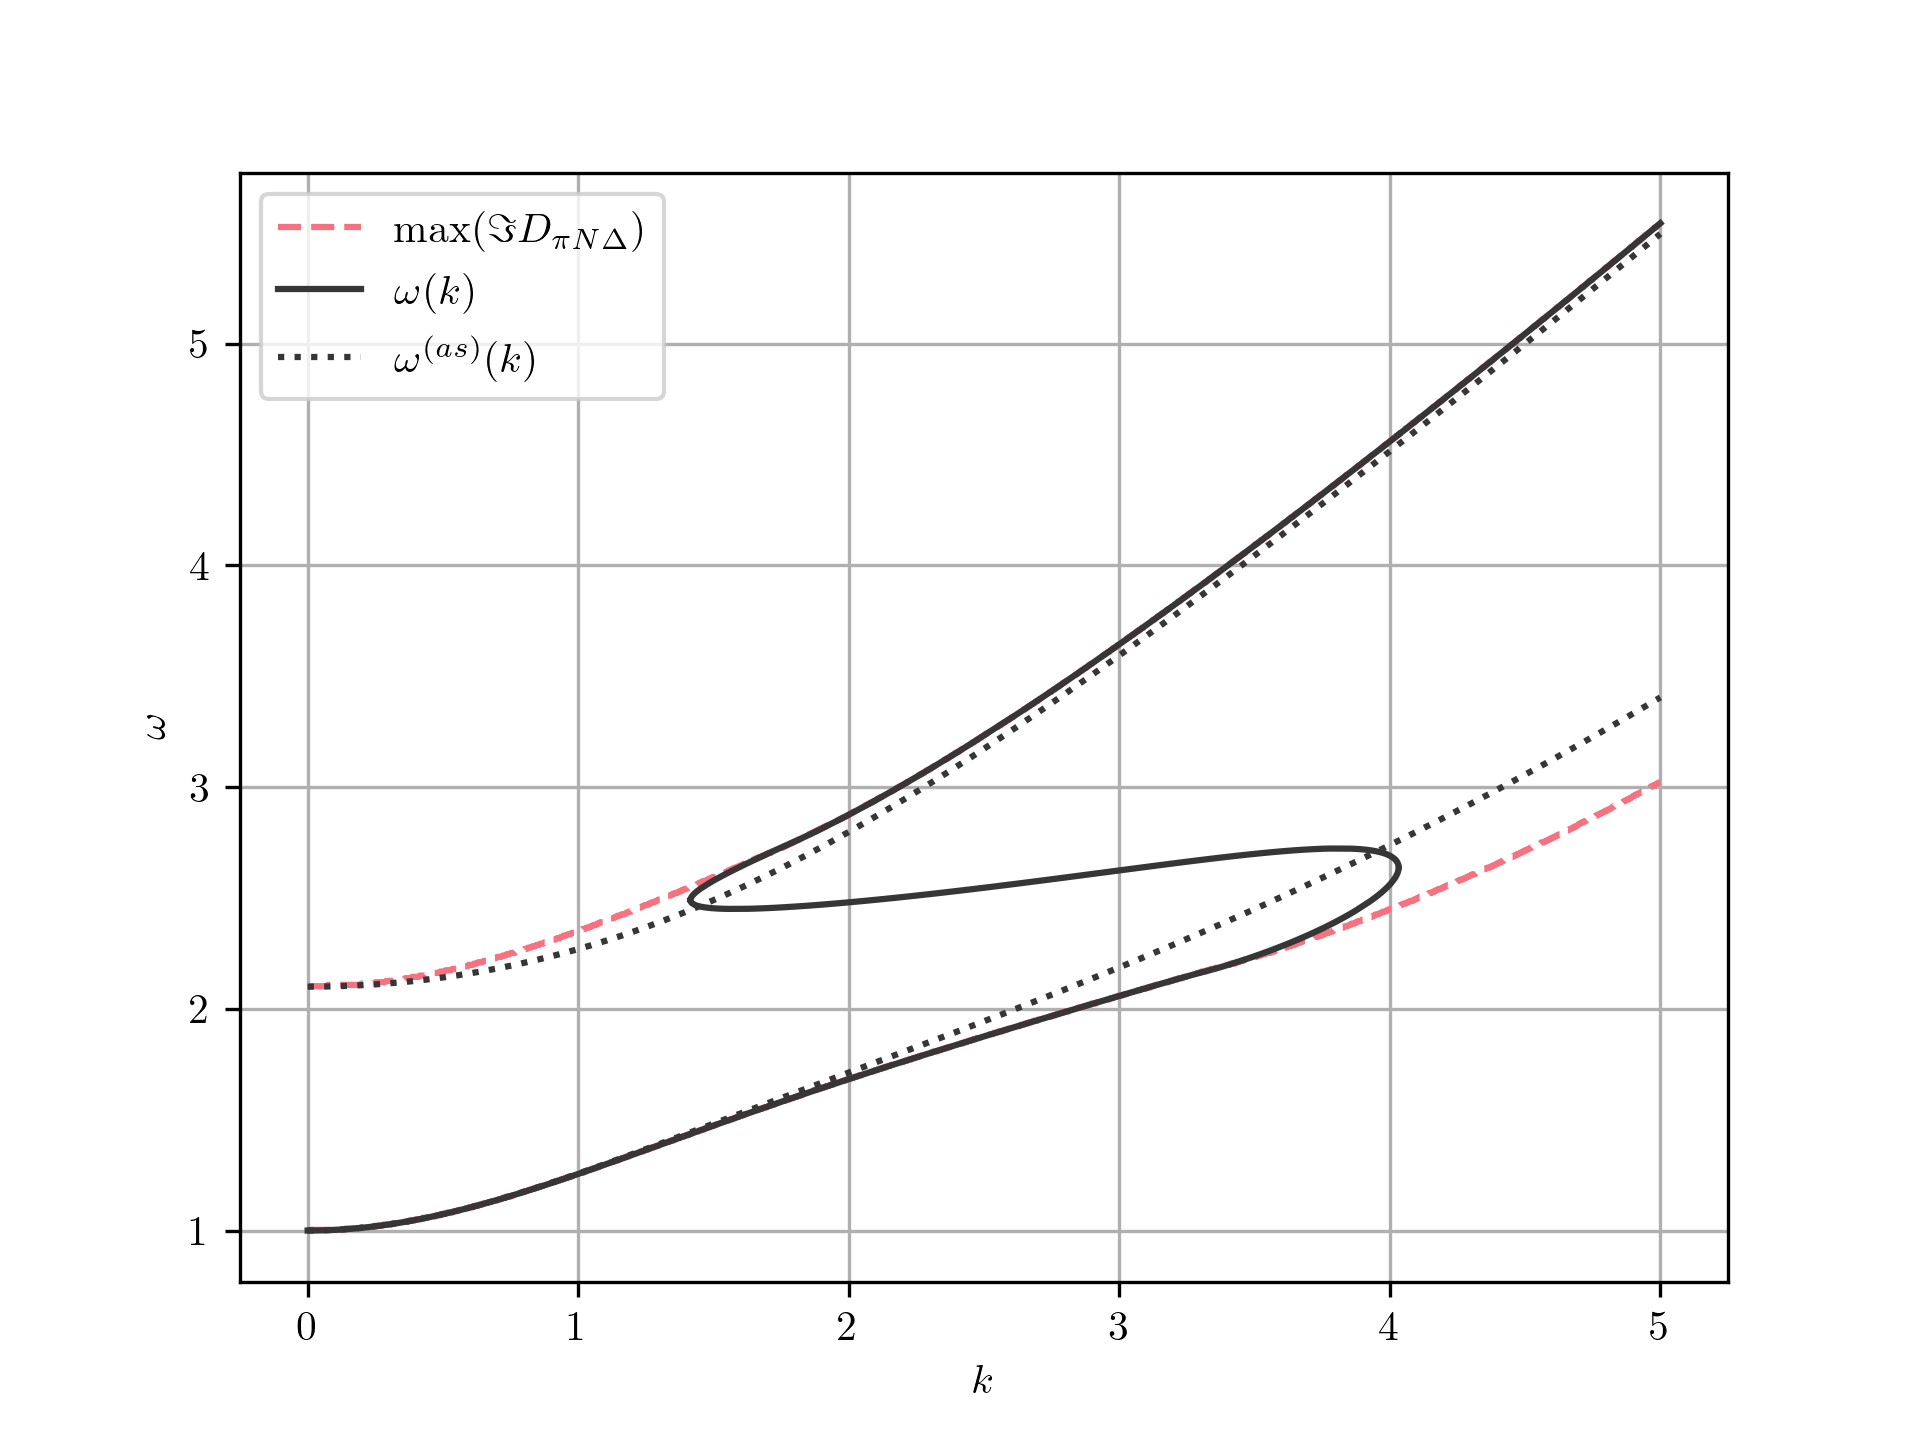
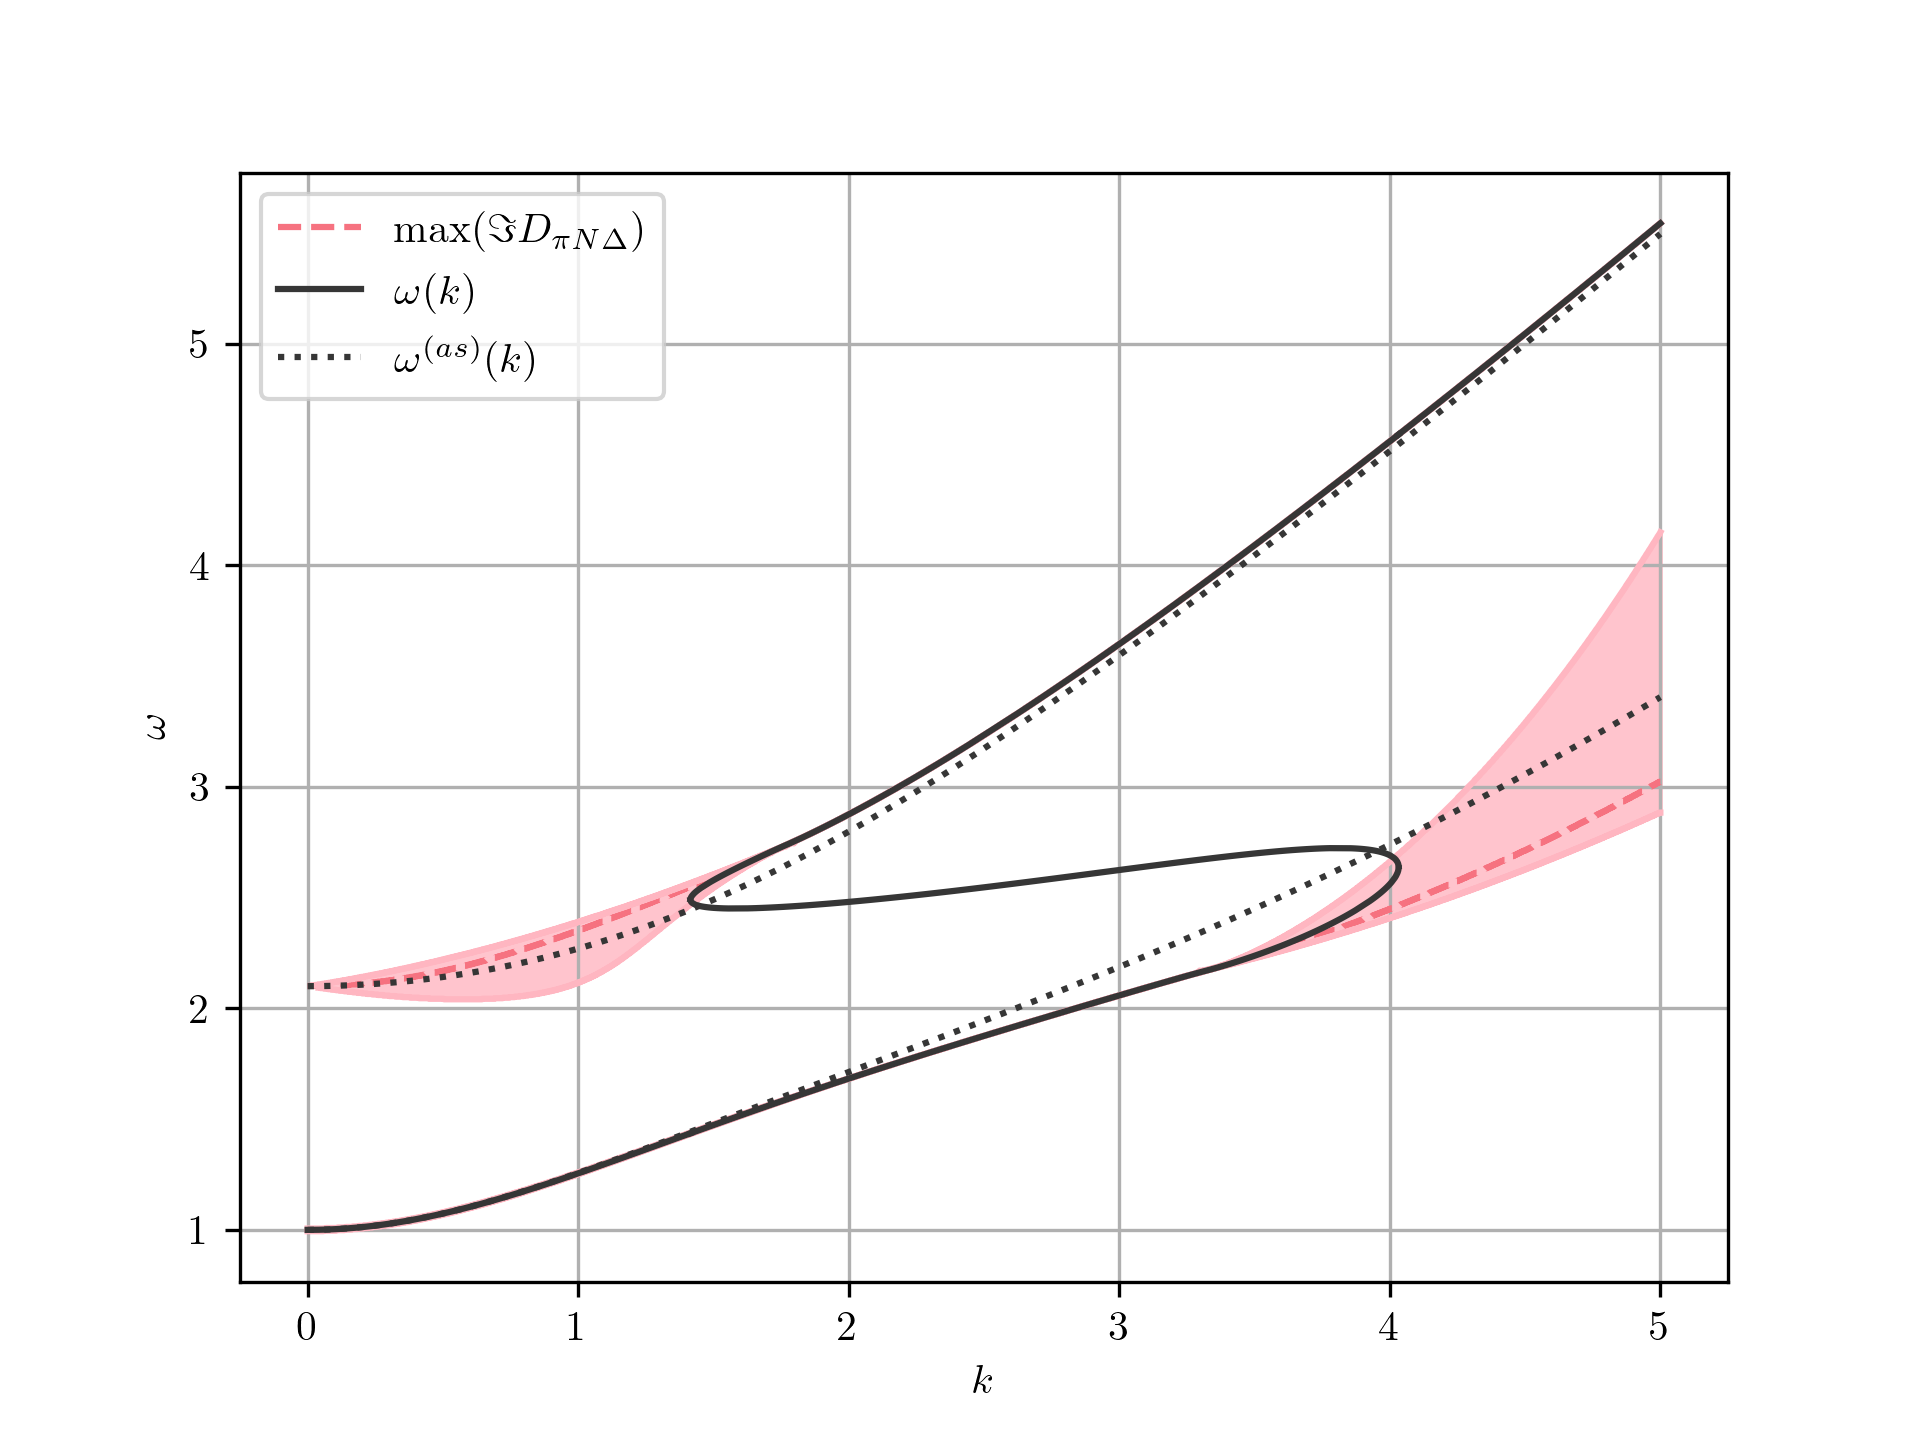
Accounted for spectral function decrease

diff --git a/spectrum_1.52.py b/spectrum_1.52.py
@@ -7,6 +7,8 @@ import numpy as np
 import matplotlib.pyplot as plt
 
 pf = 1.52
+fv.k = np.r_[1e-9:5:2500j]
+fv.w = np.r_[0:6:2500j]
 
 def d_pnd_w_imag(k, w):
     return f.d_pnd(k, w, pf).imag
@@ -14,28 +16,63 @@ def d_pnd_w_imag(k, w):
 K, W = np.meshgrid(fv.k, fv.w)
 F = d_pnd_w_imag(K, W)
 _, F_lower = aux.split(K, W, F, .5, 1.4)
+F = d_pnd_w_imag(K, W)
 F_upper, _ = aux.split(K, W, F, .03, 2.1)
 
+F = d_pnd_w_imag(K, W)
+_, F_lower_bound = aux.split(K, W, F, .5, 1.8)
+F = d_pnd_w_imag(K, W)
+F_upper_bound, _ = aux.split(K, W, F, .2, 1.7)
+
+F = d_pnd_w_imag(K, W) # This is redone
 w_upper = np.array([])
+w_upper_bound_upper = np.array([])
+w_upper_bound_lower = np.array([])
 for k_index in range(0, len(K[0, :])):
     w_index = np.argmax(F_upper[:, k_index])
+    w_upper_bound_upper = np.append(w_upper_bound_upper,
+        W[(F_upper_bound[:, k_index] > 1 / 3 * F_upper_bound[w_index, k_index]), 0][-1])
+    w_upper_bound_lower = np.append(w_upper_bound_lower,
+        W[(F_upper_bound[:, k_index] > 1 / 3 * F_upper_bound[w_index, k_index]), 0][0])
     w_upper = np.append(w_upper, W[w_index, 0])
 
 w_lower = np.array([])
+w_lower_bound_upper = np.array([])
+w_lower_bound_lower = np.array([])
 for k_index in range(0, len(K[0, :])):
     w_index = np.argmax(F_lower[:, k_index])
+    w_lower_bound_upper = np.append(w_lower_bound_upper,
+        W[(F_lower_bound[:, k_index] > 1 / 3 * F_lower_bound[w_index, k_index]), 0][-1])
+    w_lower_bound_lower = np.append(w_lower_bound_lower,
+        W[(F_lower_bound[:, k_index] > 1 / 3 * F_lower_bound[w_index, k_index]), 0][0])
     w_lower = np.append(w_lower, W[w_index, 0])
 
 color_soft_pink = '#f67280'
 color_dark_grey = '#363636'
+color_ligh_pink = '#ffb6c1'
+alpha_fill_bound = .8
 
-plt.plot(fv.k, w_upper, label=r'max$(\Im D_{\pi N \Delta})$',
+line_max_d = plt.plot(fv.k, w_upper, label=r'max$(\Im D_{\pi N \Delta})$',
     ls='dashed', color=color_soft_pink)
-plt.plot(fv.k, w_lower, ls='dashed', color=color_soft_pink)
+line_max_d_bound = plt.plot(fv.k[10:], w_upper_bound_upper[10:],
+    color=color_ligh_pink)
+plt.plot(fv.k[20:], w_upper_bound_lower[20:],
+    color=line_max_d_bound[0].get_color())
+plt.fill_between(fv.k[20:], w_upper_bound_upper[20:],
+    w_upper_bound_lower[20:], color=color_ligh_pink, alpha=alpha_fill_bound)
+
+plt.plot(fv.k, w_lower, ls='dashed', color=line_max_d[0].get_color())
+plt.plot(fv.k, w_lower_bound_upper, color=line_max_d_bound[0].get_color())
+plt.plot(fv.k, w_lower_bound_lower, color=line_max_d_bound[0].get_color())
+plt.fill_between(fv.k[20:], w_lower_bound_upper[20:],
+    w_lower_bound_lower[20:], color=color_ligh_pink, alpha=alpha_fill_bound)
+
 pi.plot('graph_data_eq_pnd_real', label=r'$\omega(k)$', color=color_dark_grey)
+
 plt.plot(fv.k, fv.w_as(fv.k, pf, branch=1), color=color_dark_grey,
     label=r'$\omega^{(as)}(k)$', ls='dotted')
 plt.plot(fv.k, fv.w_as(fv.k, pf, branch=-1), color=color_dark_grey, ls='dotted')
+
 plt.xlabel(r'$k$')
 plt.ylabel(r'$\omega$')
 pi.show('figures/spectrum_1.52')
